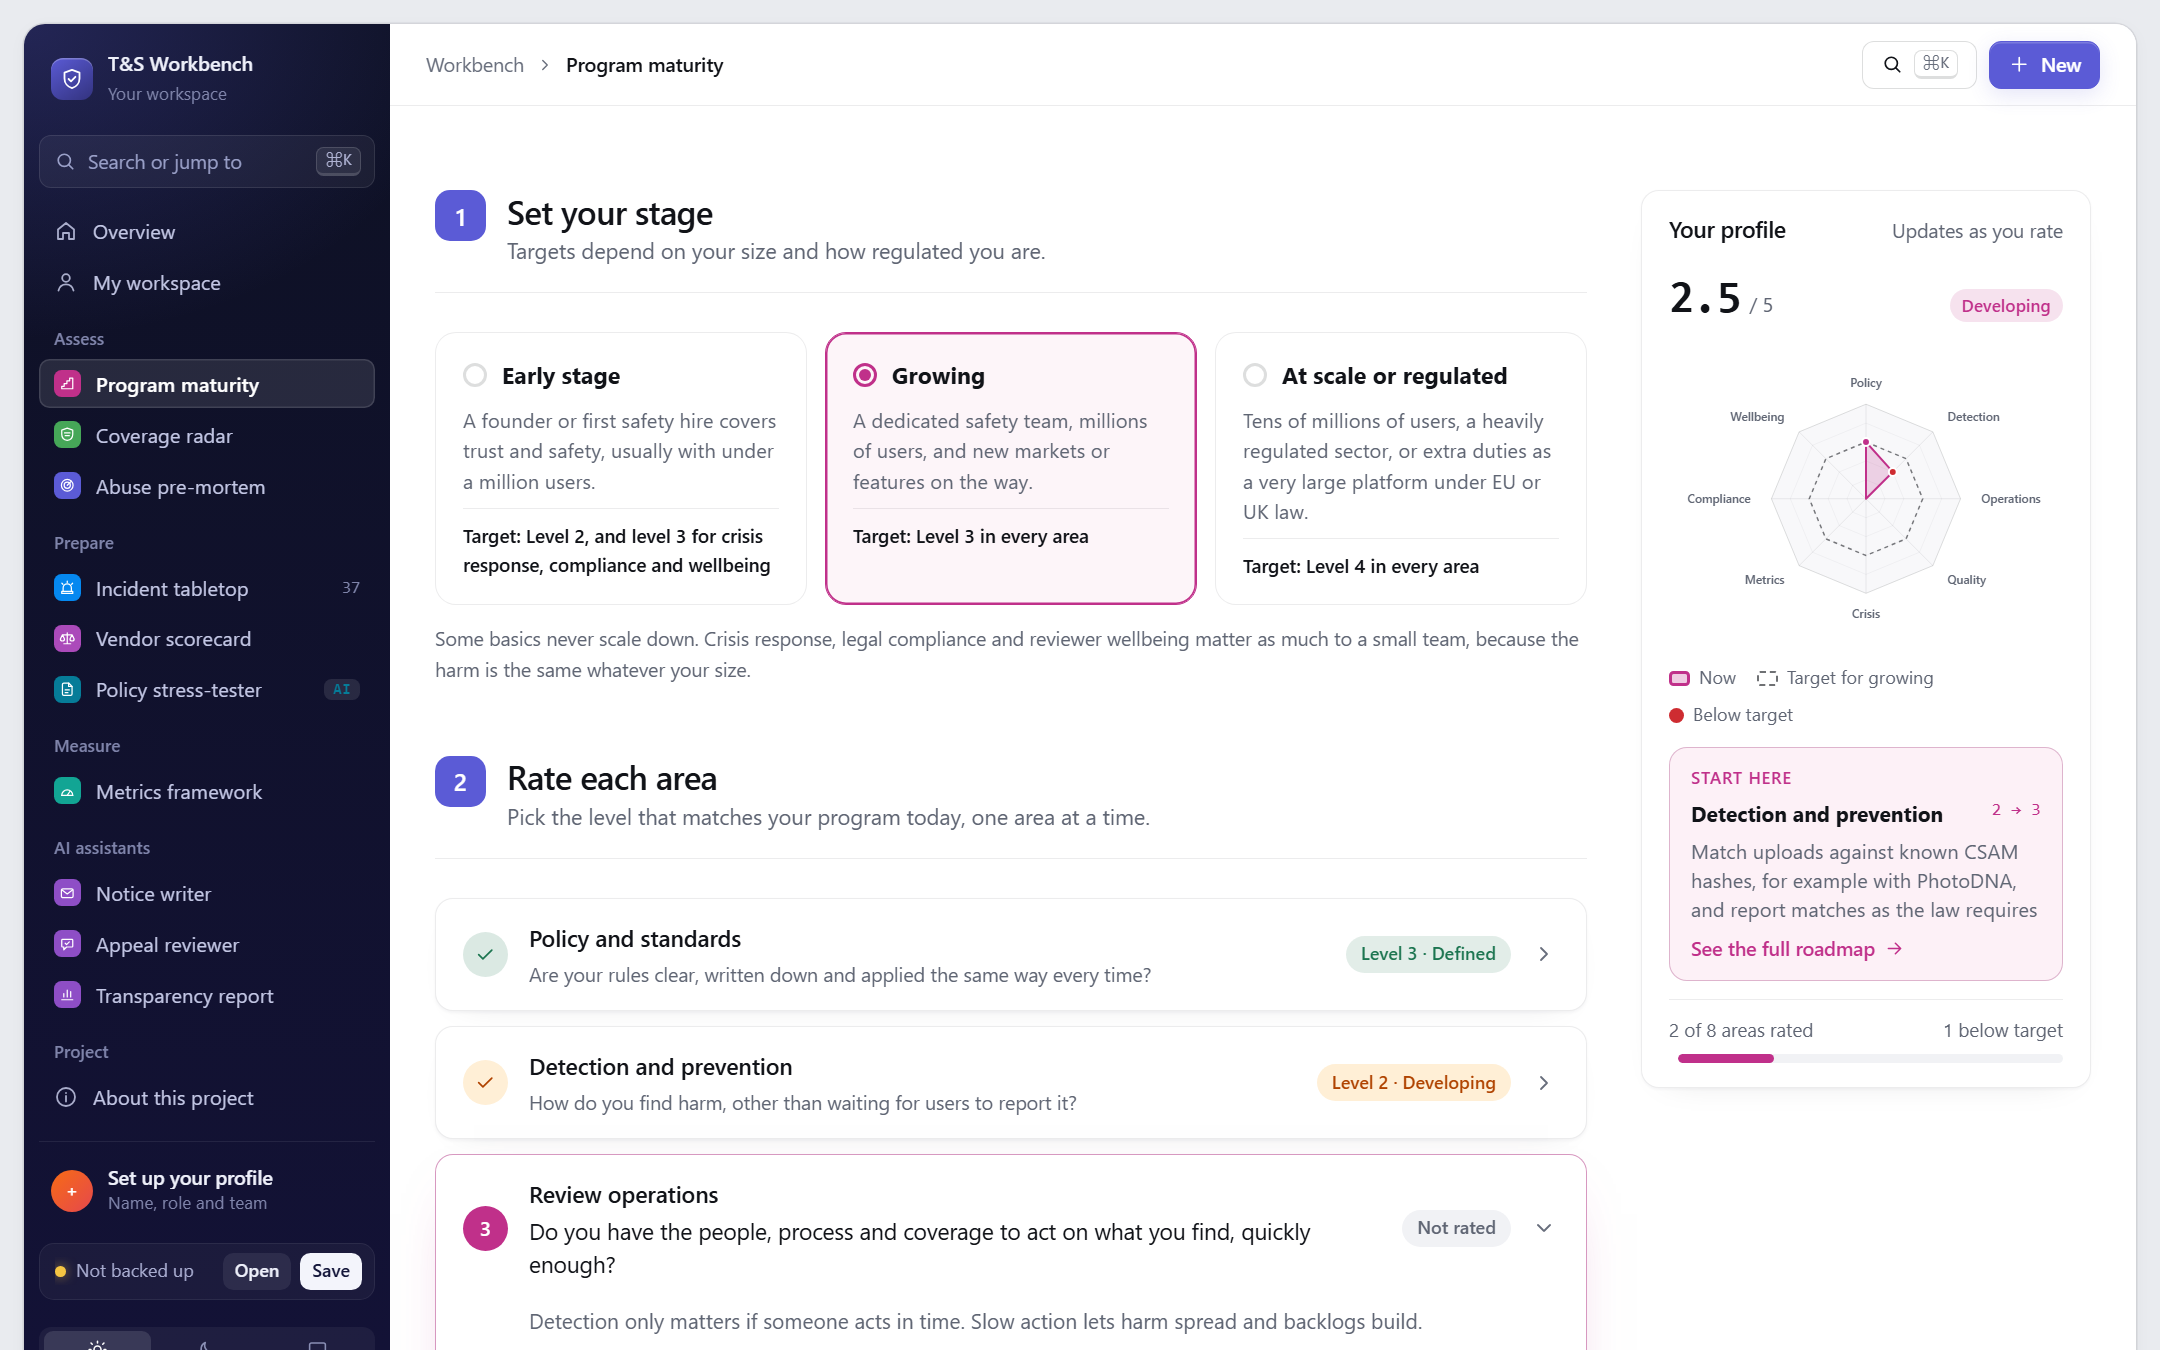
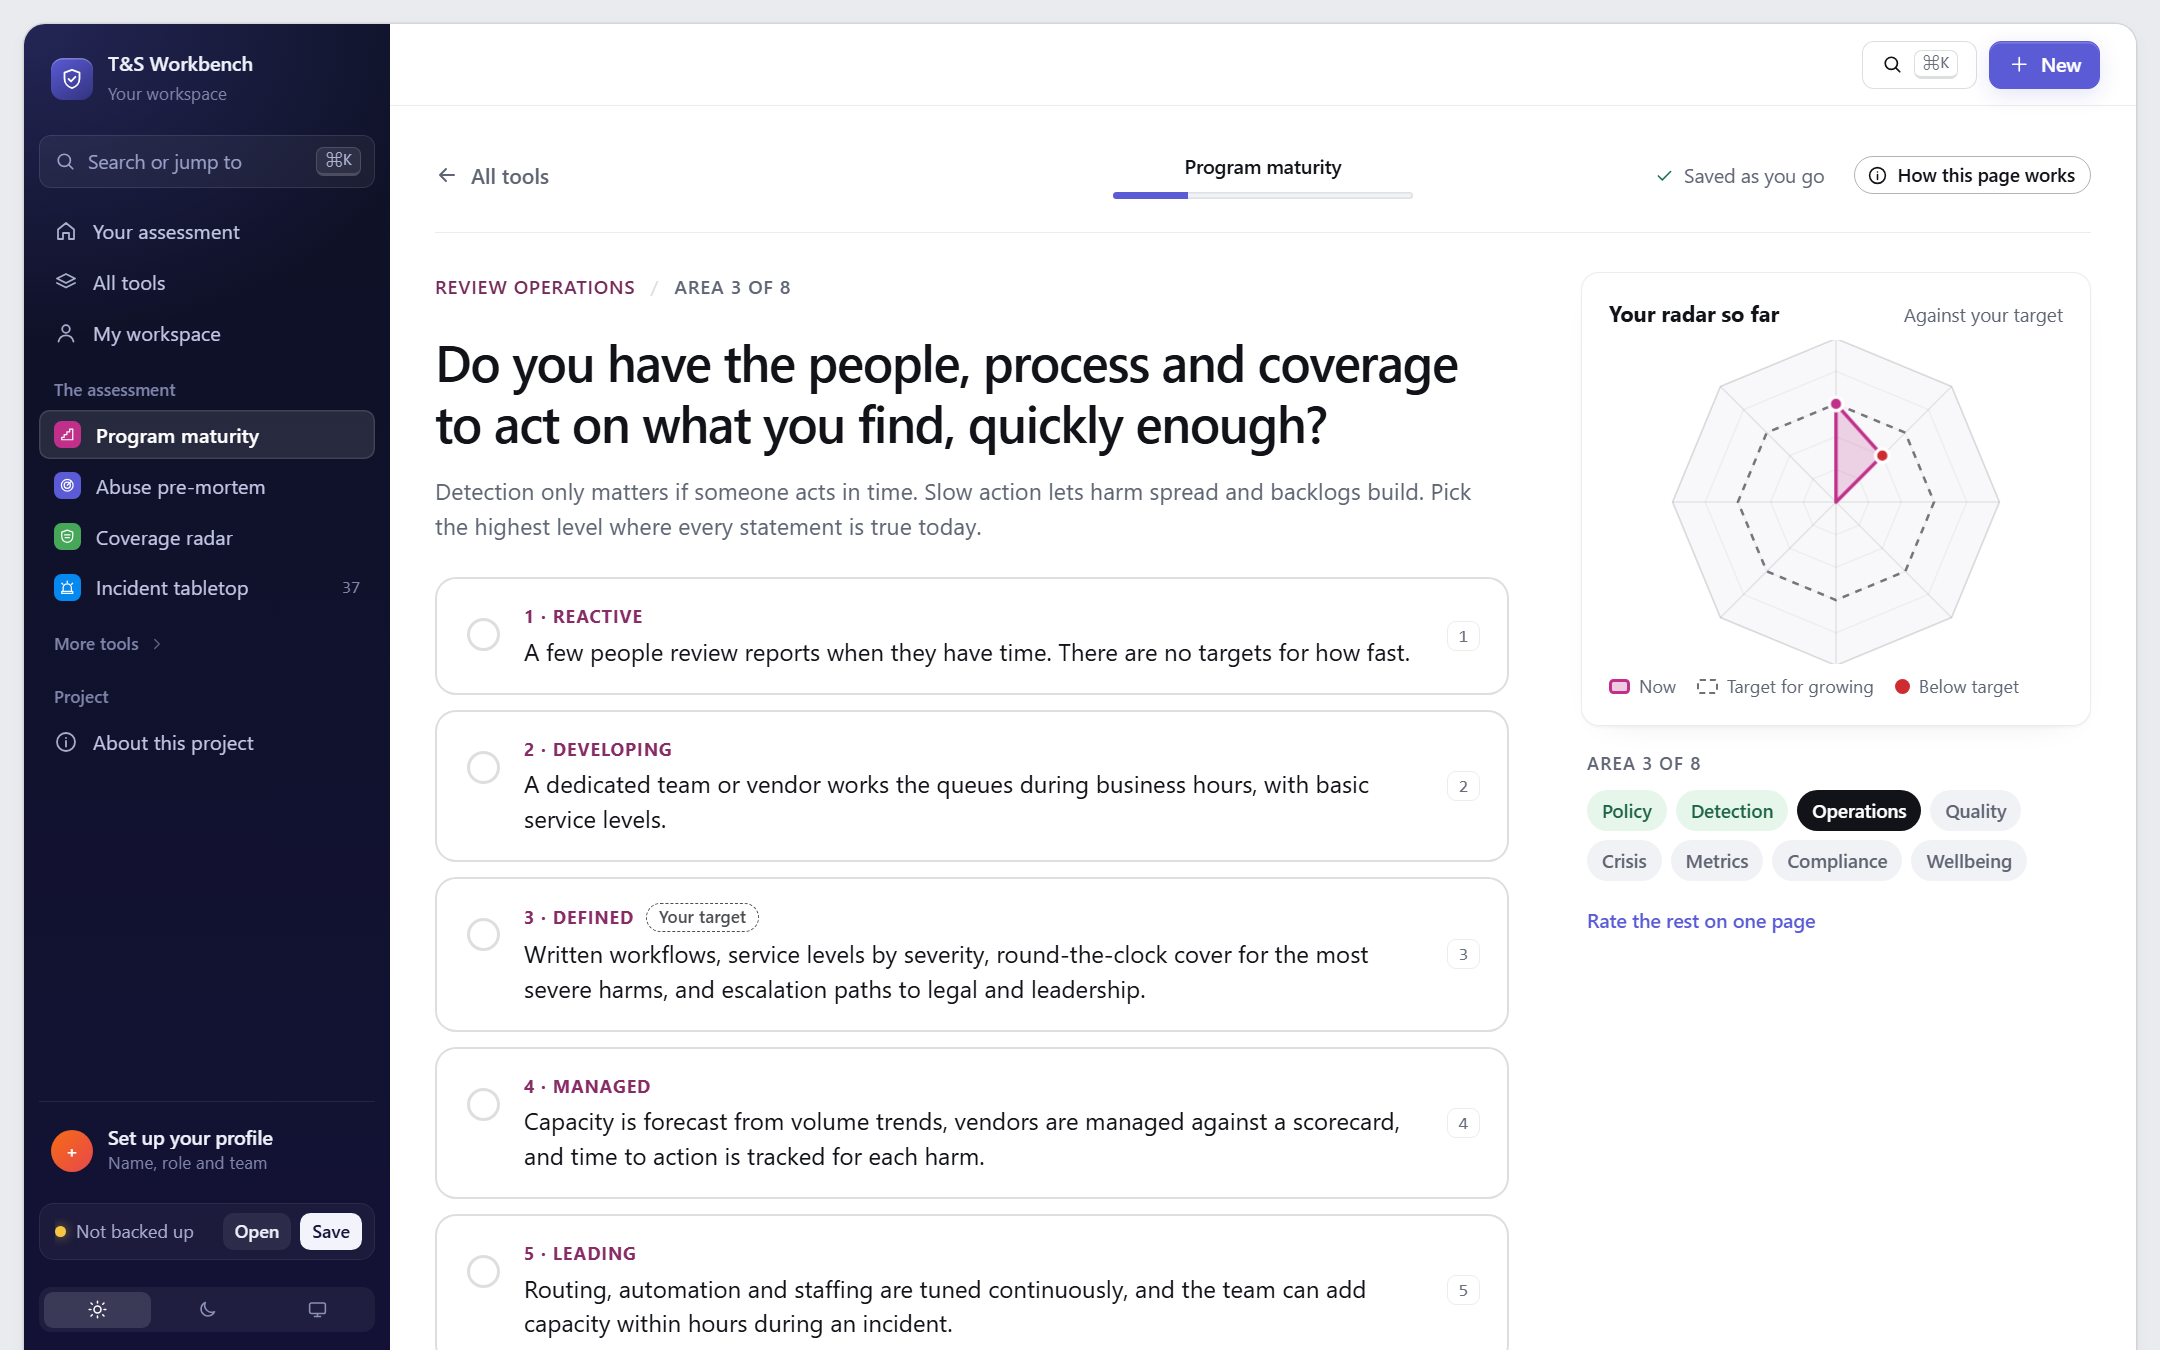
Fresh screenshots and copy for the guided assessment

diff --git a/README.md b/README.md
@@ -15,7 +15,7 @@ Leaders are asked "how mature is our safety program?" by boards, regulators, acq
 ## How it works
 
 1. **Set your stage.** Early, growing, or at scale and regulated. Targets rise with size, but crisis response, compliance and wellbeing never drop below level 3.
-2. **Rate each area.** One area at a time, pick the highest level where every statement is true today. That sets your baseline.
+2. **Rate each area.** One area per screen, five plain-language levels, your target marked. Pick the highest level where every statement is true today. Or rate them all on one page.
 3. **Work the plan.** A roadmap in now, next and later, with an owner for each area. Tick off both steps for a level and the area moves up. Each area has a ladder of evidence, and snapshots track progress over time.
 
 Send the roadmap to Jira, Asana or Linear as a CSV, or open each step as a pre-filled Jira, Linear or GitHub issue.
@@ -40,11 +40,11 @@ The tool's knowledge, published as open content you can read, reuse and adapt.
 
 ## More screenshots
 
+![maturity-flow](assets/maturity-flow.png)
+
 ![maturity-areas](assets/maturity-areas.png)
 
 ![maturity-progress](assets/maturity-progress.png)
-
-![maturity-flow](assets/maturity-flow.png)
 
 ![maturity-tracker](assets/maturity-tracker.png)
 
